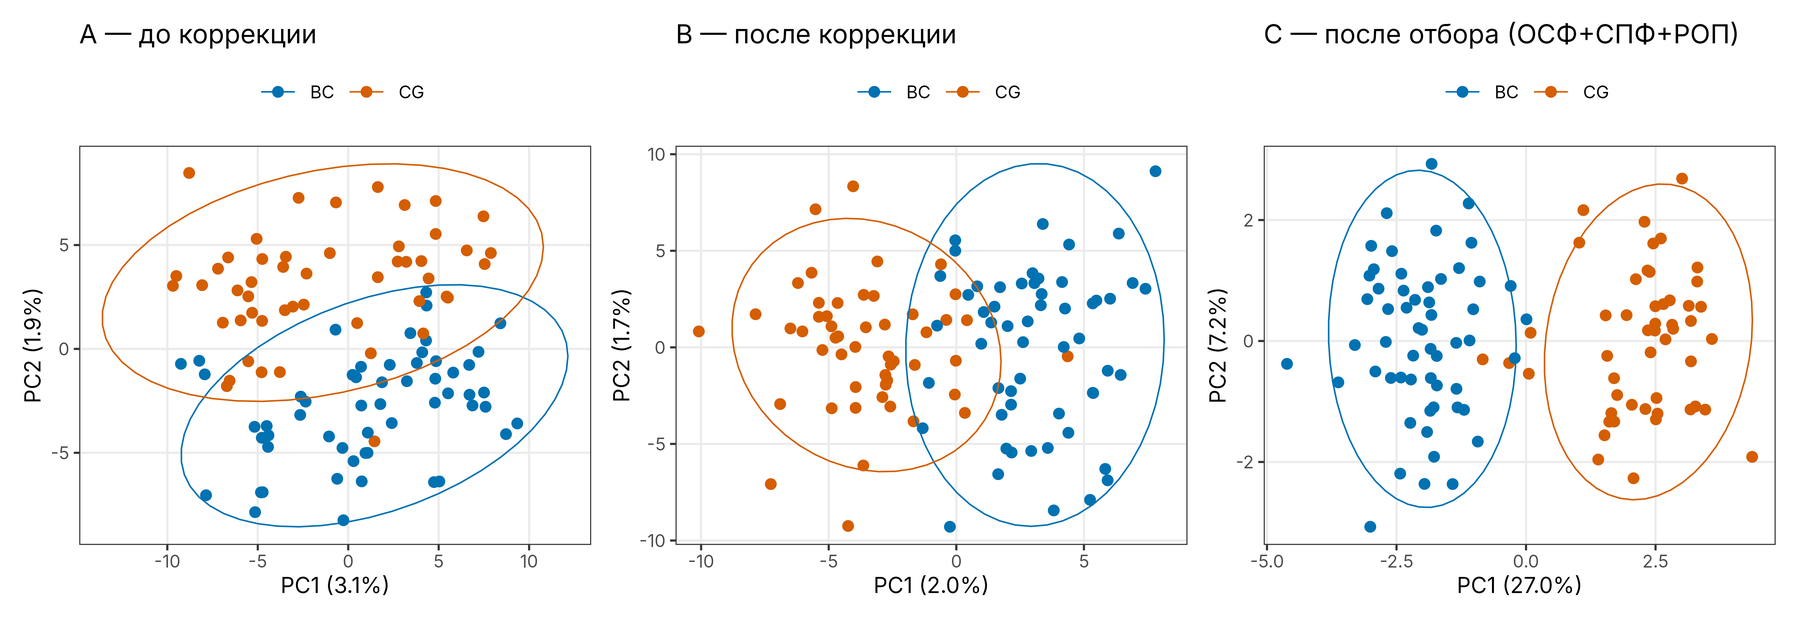
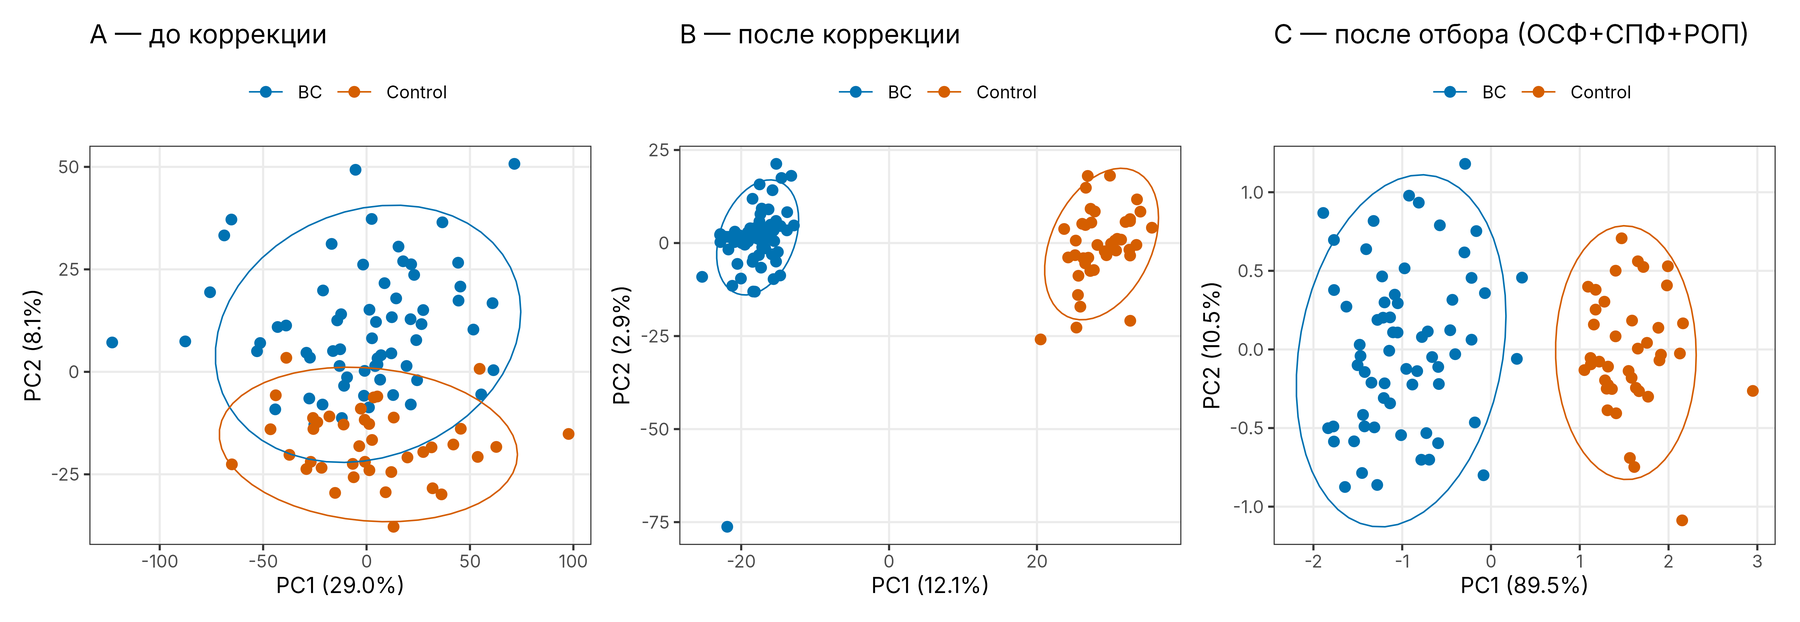
Docs: real cohorts A/B, set V from filtered A, filter profiles, module 1 verification; figures from set A
Claude-Session: https://claude.ai/code/session_013Wpb2gRPMcSAyp5VyyUtQh

diff --git a/r_utility/docs/content_zapiska.js b/r_utility/docs/content_zapiska.js
@@ -16,8 +16,8 @@ module.exports = ({ rd, csv, ROOT }) => {
   const fig = (f) => `docs/figures/${f}.png`;
   const has = (f) => fs.existsSync(path.join(ROOT, fig(f)));
   const progFiles = ["run_analysis.R", ...fs.readdirSync(path.join(ROOT, "R")).sort().map((f) => "R/" + f), "app/app.R", "app/launch.R",
-                     "templates/report.Rmd", "Start_UroMetabR.bat", "start_urometabr.sh", "Create_desktop_shortcut.vbs"];
-  const testFiles = ["tests/make_test_data.R", "tests/run_tests.R", "tests/testthat/test-01-units.R", "tests/ispytaniya.R"];
+                     "templates/report.Rmd", "docs/user_guide.md", "Start_UroMetabR.bat", "start_urometabr.sh", "Create_desktop_shortcut.vbs"];
+  const testFiles = ["tests/make_test_data.R", "tests/run_tests.R", "tests/testthat/test-01-units.R", "tests/ispytaniya.R", "tests/module1_check.R"];
   const C = [];
   C.push(["title", "Программный инструмент для неинвазивной вспомогательной диагностики рака мочеполовой системы на основе анализа мочи методом ВЭЖХ-МС"]);
   C.push(["center", `UroMetabR ${V} от ${DATE}: пояснительная записка, результаты испытаний, исходный код`]);
@@ -26,19 +26,19 @@ module.exports = ({ rd, csv, ROOT }) => {
 
   // ---------------------------------------------------------------- ТЗ
   C.push(["h1", "1 Соответствие параметрам технического задания"]);
-  C.push(["p", "В таблице для каждого параметра указано, чем он обеспечен и каким пунктом испытаний подтверждается. Статус «требует данных/ПК» означает, что программа и сценарий испытания готовы, но пункт нужно выполнить на реальных наборах А/Б или на ПК с Windows (раздел 6)."]);
+  C.push(["p", "В таблице для каждого параметра указано, чем он обеспечен и каким пунктом испытаний подтверждается. Испытания проведены на реальных наборах А (когорта статьи в ABC) и Б (когорта рукописи для Analytica), набор В построен из А; модуль 1 проверен на открытых наборах faahKO и msdata в Docker-образе с Bioconductor. Статус «требует ПК с Windows» — пункт выполняется вручную на целевом компьютере (раздел 6.1)."]);
   C.push(["table", ["Параметр", "Требование ТЗ", "Как обеспечено", "Испытание: результат", "Статус"], [
-    ["Язык и среда", "R ≥ 4.0.0, пакеты CRAN (и Bioconductor для xcms)", "Только пакеты CRAN; Bioconductor — только модуль 1; код без возможностей новее R 4.0", "Испытания в R 4.3.3 (Linux)", "подтверждено (Linux)"],
+    ["Язык и среда", "R ≥ 4.0.0, пакеты CRAN (и Bioconductor для xcms)", "Только пакеты CRAN; Bioconductor — только модуль 1; код без возможностей новее R 4.0", "Испытания в R 4.3.3 (Linux); модуль 1 — R 4.5.2, xcms 4.8.0 (Docker)", "подтверждено (Linux)"],
     ["Поставка", "Архив .zip: исходный код, библиотечные файлы, инструкция", `UroMetabR_v${V}_${DATE}.zip: код, шаблон отчёта, файлы запуска, инструкция, тесты`, "Комплект для фиксации", "подтверждено"],
     ["Установка", "Распаковать архив и запустить основной скрипт", "Start_UroMetabR.bat находит R, ставит недостающие пакеты CRAN и открывает интерфейс; ярлык — Create_desktop_shortcut.vbs", cell(10), "требует ПК с Windows"],
     ["Пользователь", "Специалист без навыков программирования", "Графический интерфейс Shiny: папка проекта, выбор файлов, параметры, запуск, журнал, результаты; код не правится", "Сценарий в браузере пройден целиком (рис. 1–3)", "подтверждено"],
     ["Входные данные", "mzML/mzXML и CSV/TSV (также .txt)", "Модуль 0 читает CSV, TSV, TXT (любой разделитель), экспорт MS-DIAL, таблицы «признаки по строкам»; проверяет mzML/mzXML/CDF; модуль 1 строит таблицу пиков (xcms)", cell(1), status(1)],
     ["Объём сессии", "50–100 образцов", "Нет ограничений по числу образцов; память — матрицы в R", cell(2), status(2)],
-    ["Устойчивые признаки", "300–800", "Модуль 3: RSD в QC ≤ 30 %, присутствие ≥ 50 % хотя бы в одной группе, обнаружение в QC ≥ 80 %, бланк; пороги — параметры; выход за 300–800 отмечается в журнале", cell(3), "требует наборов А и Б"],
+    ["Устойчивые признаки", "300–800", "Модуль 3, два профиля. Стандартный (анализ, модули 4–8): присутствие ≥ 50 % хотя бы в одной группе, QC ≥ 80 %, бланк, RSD в QC ≤ 30 %. Строгий (база признаков, п. 6 ТЗ): обнаружение во всех образцах, QC ≥ 80 %, бланк, RSD в QC ≤ 15 %", cell(3), "А: подтверждено (строгий профиль); Б: вне диапазона"],
     ["Пропуски во входных данных", "до 20–30 %", "Модуль 5: случайный лес (алгоритм missForest); доля пропусков проверяется в модуле 0", cell(4), status(4)],
-    ["Полный цикл обработки", "до 24–48 ч", "Время и пиковая память каждого модуля пишутся в журнал и отчёт", cell(8), "подтверждено на А*; А и Б — на ПК"],
+    ["Полный цикл обработки", "до 24–48 ч", "Время и пиковая память каждого модуля пишутся в журнал и отчёт", cell(8), status(8)],
     ["Выход", "База признаков (m/z, RT…) для накопления; статистика; графики; отчёт", "Модуль 9: runs_db, features_db, intensities_db (CSV с дозаписью); модуль 7 — статистика; модуль 8 — рисунки PNG/JPEG 600 dpi; отчёт HTML (R Markdown)", cell(9), status(9)],
-    ["Железо", "Windows 8+, ≥ 2,5 ГГц, ОЗУ ≥ 8 ГБ, диск ≥ 1 ГБ", "Пиковая память R в испытаниях < 0,5 ГБ; результаты прогона — десятки МБ", "Память по модулям — в протоколе (п. 2, 8)", "требует ПК с Windows"],
+    ["Железо", "Windows 8+, ≥ 2,5 ГГц, ОЗУ ≥ 8 ГБ, диск ≥ 1 ГБ", "Пиковая память R в испытаниях ≤ 1,7 ГБ (набор Б), модуль 1 — 1,5 ГБ; результаты прогона — десятки МБ", "Память по модулям — в протоколе (п. 2, 8)", "память подтверждена; Windows — на ПК"],
     ["Обслуживание", "Без регулярного обслуживания; обновление — новым архивом", "Программа не хранит состояние вне папки проекта; обновление — распаковка нового архива, проекты и база не затрагиваются", "—", "подтверждено"]],
     [12, 16, 28, 30, 14]]);
 
@@ -48,16 +48,16 @@ module.exports = ({ rd, csv, ROOT }) => {
     ["0", "Загрузка и проверка входа", "Новое (на этапе 1 — CDF и разбор имён файлов)", "CSV/TSV/TXT/MS-DIAL, mzML/mzXML/CDF; метаданные (file, group, sample, injection_order, replicate, include, sex, age); 9 проверок с понятными сообщениями", "00_input: input_check.csv, metadata_checked.csv"],
     ["1", "Оптимизация параметров и таблица пиков", "IPO + xcms: centWave, Obiwarp, PeakDensity, fillChromPeaks", "Те же шаги; один режим параллельности; minFraction — параметр (0,5); группы образцов из метаданных; IPO по файлам QC — по флажку; для таблиц модуль пропускается", "01_peaktable: peak_table.csv, features.csv"],
     ["2", "Контроль качества", "PCA с образцами QC", "PCA (log2, автошкалирование) с QC, TIC по порядку ввода, распределение RSD в QC, пропуски по группам", "02_qc: qc_summary.csv, pca_qc, tic_by_order, rsd_qc"],
-    ["3", "Фильтр устойчивых признаков", "Новое", "Присутствие ≥ 50 % хотя бы в одной группе, обнаружение в QC ≥ 80 %, отношение к бланку ≥ 5, RSD в QC ≤ 30 %; число признаков на каждом шаге", "03_filter: filter_steps.csv, feature_filter.csv"],
+    ["3", "Фильтр устойчивых признаков", "Новое", "Два профиля: стандартный (присутствие ≥ 50 % хотя бы в одной группе, QC ≥ 80 %, бланк ≥ 5, RSD в QC ≤ 30 %) — для анализа; строгий (во всех образцах, QC ≥ 80 %, бланк, RSD ≤ 15 %) — для базы признаков; число признаков на каждом шаге обоих профилей", "03_filter: filter_steps.csv, feature_filter.csv, strict_profile_peak_table.csv"],
     ["4", "Удаление QC, усреднение повторов, сортировка", "Код этапа 1 (часть — вручную в Excel)", "Автоматически по метаданным: QC и бланки удаляются, повторы одного образца усредняются, строки сортируются по порядку ввода", "04_samples: samples_matrix.csv"],
     ["5", "Заполнение пропусков", "missForest (maxiter 10, ntree 100)", "Алгоритм missForest в собственной реализации (воспроизводимо при любом числе потоков) или пакет missForest; ½ минимума — по выбору; оценка NRMSE", "05_impute: imputed.csv, impute_info.csv"],
     ["6", "Коррекция дрейфа и логарифмирование", "EigenMS (ProteoMM), log2; диаграммы распределения", "EigenMS в собственной реализации (число трендов — перестановочный тест), log2, PQN — по выбору; диаграммы распределения по пробам до и после", "06_correct: corrected_log2.csv, eigenms_trends.csv, distribution_by_sample"],
     ["7", "Статистика и отбор признаков", "uvf; 4 модели caret; 50 важнейших; встречаемость ≥ 2 из 4; RFE c nbFuncs", "То же с исправлениями (раздел 3); поправка по всем признакам — параметр (Холм); таблицы ds, ds_d, ds_rfe; точность моделей до/после коррекции; таблица AUROC по этапам; вложенная CV; модель с поправкой на пол и возраст (если есть в метаданных)", "07_select: uvf_stats, ds, ds_d, ds_rfe, model_accuracy, auroc_steps, nested_cv"],
     ["8", "Визуализация", "PCA и ИКА (Манхэттен, ward.D2), тепловая карта, boxplot, PLS-DA с VIP", "Те же графики для трёх этапов (до коррекции, после коррекции, после отбора); PNG и JPEG, 600 dpi", "08_visual: pca_stages, hca_stages, heatmap, boxplots_metabolites, plsda_vip"],
-    ["9", "База признаков и отчёт", "Новое", "CSV-база с дозаписью: прогоны, признаки (m/z, RT, отметки отбора), интенсивности; отчёт HTML (R Markdown) со всеми таблицами, рисунками, журналом и sessionInfo()", "09_report: report.html; features_db/"]],
+    ["9", "База признаков и отчёт", "Новое", "CSV-база с дозаписью: прогоны, признаки строгого профиля (m/z, RT, RSD, отметки отбора), интенсивности; если строгий профиль пуст — профиль анализа с пометкой; отчёт HTML (R Markdown) со всеми таблицами, рисунками, журналом и sessionInfo()", "09_report: report.html; features_db/"]],
     [4, 15, 20, 37, 24]]);
   C.push(["p", "Модуль можно перезапустить отдельно (например, только 7–9 после изменения параметров отбора): данные берутся из результатов предыдущих модулей в папке проекта. Перед каждым модулем генератор случайных чисел устанавливается в seed + номер модуля, поэтому результат модуля не зависит от того, запускались ли до него другие."]);
-  for (const [f, cap] of [["pca_stages", "PCA на трёх этапах обработки (набор А*)"], ["hca_stages", "Иерархическая кластеризация (Манхэттен, Уорд) на трёх этапах"],
+  for (const [f, cap] of [["pca_stages", "PCA на трёх этапах обработки (набор А, 104 образца). Резкое разделение на панели B — следствие EigenMS, который сохраняет межгрупповые различия и удаляет остальную вариацию, используя метки групп; оценивать разделимость следует по вложенной кросс-валидации"], ["hca_stages", "Иерархическая кластеризация (Манхэттен, Уорд) на трёх этапах"],
                           ["distribution_by_sample", "Распределение интенсивностей по образцам до и после коррекции EigenMS"], ["plsda_vip", "PLS-DA и важность переменных (VIP)"]])
     if (has(f)) C.push(["img", fig(f), 16, `Рисунок — ${cap}`]);
 
@@ -75,6 +75,7 @@ module.exports = ({ rd, csv, ROOT }) => {
     ["8", "\"СG\" с кириллической «С» и \" #6bc986\" с пробелом", "Цвета групп назначаются автоматически по названиям групп из метаданных", "Тест «цвета групп берутся из данных»"],
     ["9", "SnowParam сразу перезаписывается SerialParam", "Один BPPARAM: SerialParam (1 поток), SnowParam (Windows) или MulticoreParam; число потоков — параметр", "Тест «один режим параллельных вычислений»"],
     ["10", "minFraction берётся из IPO", "Параметр xcms$min_fraction (0,5)", "Тот же тест"],
+    ["12", "new(\"NAnnotatedDataFrame\") при чтении сырых данных — в актуальном MSnbase (2.36) класса нет, скрипт не запускается", "Biobase::AnnotatedDataFrame (найдено при проверке модуля 1 в Docker-образе с xcms 4.8)", "Проверка модуля 1 на faahKO"],
     ["11", "set.seed в разных местах", "Один параметр project$seed; модуль k использует seed + k; caret, RFE и перестановки получают заранее сгенерированные зерна (воспроизводимо и в параллельном режиме)", "Испытание 6: три запуска с одним seed"]],
     [4, 30, 42, 24]]);
   C.push(["h2", "3.1 Методический момент: отбор признаков внутри кросс-валидации — сделано"]);
@@ -91,24 +92,24 @@ module.exports = ({ rd, csv, ROOT }) => {
 
   // ---------------------------------------------------------------- наборы
   C.push(["h1", "5 Контрольные наборы данных"]);
-  C.push(["table", ["Набор", "Содержание", "Назначение", "Статус"], [
-    ["А", "Данные этапа 1: 106 образцов, 981 признак (таблица xcms после IPO)", "Сходимость с этапом 1: 981 → 226 → 5, mean AUROC 0,541 → 0,873", "нужны таблица и файл метаданных (file, group, injection_order, replicate)"],
-    ["А*", "Синтетический заменитель А: 106 образцов (50 CG, 56 BC), 8 QC, 10 повторных вводов, 1200 признаков, 17 % пропусков, дрейф по порядку ввода, 60 признаков с различиями", "Отладка и испытания, пока нет реального А (tests/make_test_data.R)", "использован"],
-    ["Б", "Когорта 2025–2026: 94 образца (29 РМП, 20 РПЖ, 45 контроль)", "Независимые данные", "нужны таблица (экспорт MS-DIAL) и метаданные"],
-    ["В", "Набор А с перемешанными метками групп (настоящие различия разрушены), 15 признаков с внесёнными различиями (|log2| 0,8–1,5), пропуски доведены до 20, 25 и 30 %", "Находит ли утилита именно внесённые признаки; ошибка заполнения на внесённых пропусках", "построен из А*; из реального А строится тем же сценарием"]],
-    [8, 40, 30, 22]]);
+  C.push(["table", ["Набор", "Содержание", "Назначение"], [
+    ["А", "Когорта статьи в ABC (2026): 107 участников — 67 с урологической патологией, 40 здоровых добровольцев; образцы 32, 54, 105 (не РМП по гистологии) исключены через include = 0 — в анализе 104 образца (64 РМП, 40 контроль); 21 QC; экспорт MS-DIAL, 12 930 признаков; порядок ввода не указан", "Работа на реальных целевых данных: признаки, время, отбор, вложенная кросс-валидация"],
+    ["В", "Набор А после стандартного фильтра модуля 3 (4351 признак) с перемешанными метками групп, 15 признаками с внесёнными различиями (|log2| 0,8–1,5) и пропусками во входной таблице, доведёнными до 20, 25 и 30 %", "Находит ли утилита именно внесённое; ошибка заполнения на внесённых пропусках"],
+    ["Б", "Когорта рукописи для Analytica: 94 участника (29 РМП, 20 РПЖ, 45 контроль), собрана с декабря 2025 по май 2026; 6 QC; экспорт MS-DIAL, 14 693 признака", "Независимые данные, не использованные при разработке"],
+    ["faahKO, msdata", "Открытые наборы Bioconductor: 12 файлов netCDF (6 KO, 6 WT), конвертированных в mzML и mzXML; файлы mzML (Sciex) и mzXML из msdata", "Проверка модуля 1 (xcms) и чтения сырых форматов"]],
+    [10, 55, 35]]);
+  C.push(["p", "Набор В строится из отфильтрованной таблицы А, потому что в исходном экспорте MS-DIAL много почти пустых признаков (в образцах набора А — 52 % пропусков), а требование ТЗ «до 20–30 % пропусков» относится к входным данным устойчивых признаков. Синтетические данные (tests/make_test_data.R) используются только в модульных тестах."]);
+  C.push(["p", "Замечание к результатам набора А: группы разделяются почти полностью уже до коррекции (точность моделей 0,96–0,99), а РОП оставляет 2 признака. В статье ABC группы различаются по полу и возрасту, образцы собраны в двух клиниках, поэтому часть различий может быть связана не с опухолью; при наличии пола и возраста в метаданных модуль 7 дополнительно строит модель с поправкой на них."]);
 
   // ---------------------------------------------------------------- испытания
   C.push(["h1", "6 Функциональные испытания"]);
-  C.push(["p", "Испытания выполняет сценарий tests/ispytaniya.R. Он строит контрольные наборы, запускает утилиту, сравнивает результаты с целевыми значениями и записывает протокол (protocol.csv), журналы и sessionInfo() каждого прогона. Ниже — протокол прогона в среде разработки (Linux, R 4.3.3, 4 потока) на наборе А*."]);
+  C.push(["p", "Испытания выполняет сценарий tests/ispytaniya.R. Он строит контрольные наборы, запускает утилиту, сравнивает результаты с целевыми значениями и записывает протокол (protocol.csv), журналы и sessionInfo() каждого прогона. Ниже — протокол на наборах А, Б и В (Linux, R 4.3.3, 4 потока); строки пункта 1 «Модуль 1» — из проверки tests/module1_check.R в Docker-образе jorainer/xcms_tutorials:RELEASE_3_22 (R 4.5.2, xcms 4.8.0, MSnbase 2.36.0). Повторные прогоны пп. 4–6 выполнены с облегчёнными настройками (указаны в строках протокола), полные прогоны А и Б — с настройками по умолчанию."]);
   C.push(["table", ["№", "Что проверяем", "Результат", "Цель", "Итог"], P.map((r) => [r.trial, r.item, r.value, r.target, r.result]), [4, 28, 40, 16, 12]]);
   if (has("report_top")) C.push(["img", fig("report_top"), 15, "Рисунок 4 — Начало HTML-отчёта (испытание 9): содержание, время и память по модулям, проверки входных данных"]);
-  C.push(["h2", "6.1 Что нужно выполнить до сдачи отчёта"]);
+  C.push(["h2", "6.1 Что остаётся выполнить"]);
   C.push(["numbers", [
-    "**Наборы А и Б** (пункты 2, 3, 7, 8 на реальных данных; набор В — из реального А): `Rscript tests/ispytaniya.R --out=протокол_А_Б --setA=xcms_after_IPO.csv,meta_A.csv --setB=s266_table.csv,meta_B.csv --cores=4`. Для А нужен файл метаданных: file (как в таблице), group (CG/BC/QC), injection_order, replicate. Режим совместимости (p_adjust = stage1, без фильтра модуля 3) должен дать 226 признаков после ОСФ; режим по умолчанию (поправка Холма) — заметно меньше: это ожидаемое следствие исправления 6.",
-    "**mzML/mzXML** (пункт 1, модуль 1): установить xcms и MSnbase (`BiocManager::install(c(\"xcms\", \"MSnbase\", \"IPO\"))`) и добавить `--raw=папка_mzML,метаданные.csv`. В среде разработки Bioconductor недоступен, модуль 1 не запускался.",
-    "**Windows** (пункт 10 и проверка пункта 8 на ПК уровня ТЗ): на чистом ПК установить R, распаковать архив, запустить Start_UroMetabR.bat, записать время установки и проблемы; прогнать набор Б через интерфейс и записать время и память из таблицы модулей.",
-    "**Набор Б и цель 300–800 признаков.** В рукописи по набору Б (MS-DIAL) после тех же фильтров остаётся 7403 признака (5792 соединения) — больше 800. Либо ужесточить пороги (например, RSD ≤ 20 % и присутствие ≥ 80 %), либо указать в отчёте, что диапазон 300–800 относится к таблицам xcms (набор А), а экспорт MS-DIAL даёт больше признаков."], "num"]);
+    "**Установка на ПК с Windows (пункт 10).** На чистом ПК установить R ≥ 4.0.0, распаковать архив, запустить Start_UroMetabR.bat; записать версию Windows и R, время установки пакетов и проблемы (чек-лист — docs/user_guide.md, раздел «Установка»). Там же можно повторить модуль 1: Rscript tests/module1_check.R --out=module1_check (чек-лист — tests/module1/README.md).",
+    "**Цель 300–800 признаков для набора Б.** Строгий профиль даёт 777 признаков для набора А и 1709 для набора Б; стандартный — 4351 и 7403. В отчёте стоит указать, что диапазон выполняется для набора А в строгом профиле, а для набора Б число устойчивых сигналов выше (большая когорта и другой батч)."], "num"]);
   C.push(["h2", "6.2 Журналы и sessionInfo() в отчёте"]);
   C.push(["p", "Да, их нужно включить: это подтверждает, что испытания проводились именно этой версией программы с конкретными версиями R и пакетов. Утилита пишет для каждого прогона журнал (logs/run_<дата_время>.log), таблицу времени и памяти по модулям (logs/modules_<…>.csv), копию настроек и sessionInfo() (logs/session_info_<…>.txt); тот же журнал и sessionInfo() входят в HTML-отчёт. Сценарий испытаний собирает их в папку runs/ протокола. В приложение к отчёту достаточно вставить протокол, sessionInfo() (один раз — для среды испытаний) и таблицу модулей полного прогона; полные журналы всех прогонов приложить архивом (приложение А)."]);
 
@@ -126,7 +127,7 @@ module.exports = ({ rd, csv, ROOT }) => {
   C.push(["table", ["Модуль", "Название", "Статус", "Время, с", "Пиковая память R, МБ"], mod.map((r) => [r.module, r.title, r.status, r.time_s, r.peak_ram_mb]), [10, 46, 14, 14, 16]]);
   C.push(["h3", "sessionInfo() среды испытаний"]);
   C.push(["code", src(`${R}/session_info_ispytaniya.txt`)]);
-  C.push(["h3", "Журнал полного прогона набора А*"]);
+  C.push(["h3", "Журнал полного прогона набора А"]);
   C.push(["code", src(`${R}/log_setA_full.log`)]);
   C.push(["h1", "Приложение Б. Исходный код"]);
   [...progFiles, ...testFiles].forEach((f, i) => { C.push(["h2", `Б.${i + 1} ${f}`]); C.push(["code", src(f)]); });

diff --git a/r_utility/docs/content_komplekt.js b/r_utility/docs/content_komplekt.js
@@ -21,7 +21,7 @@ module.exports = ({ rd, csv, ROOT }) => {
   C.push(["table", ["Поле", "Содержание"], [
     ["Назначение", "Полуавтоматическая обработка и статистический анализ данных ненаправленного метаболомного профилирования мочи методом высокоэффективной жидкостной хроматографии – масс-спектрометрии (ВЭЖХ-МС) для поиска метаболомных признаков, ассоциированных с раком мочеполовой системы, и формирования расширяемой базы метаболомных признаков."],
     ["Область применения", "Клиническая лабораторная диагностика, онкоурология, научные исследования в области метаболомики."],
-    ["Основные функции (модули)", "0 — загрузка и проверка входных данных (mzML, mzXML, CDF, CSV, TSV, TXT, экспорт MS-DIAL) и метаданных; 1 — оптимизация параметров и построение таблицы пиков (xcms, IPO); 2 — контроль качества (PCA с образцами QC, доля пропусков, TIC, RSD); 3 — фильтр устойчивых признаков; 4 — удаление QC, усреднение повторных измерений, сортировка по порядку ввода; 5 — заполнение пропусков случайным лесом; 6 — коррекция систематической ошибки сигнала (EigenMS) и логарифмирование; 7 — одномерный статистический фильтр, четыре модели машинного обучения, отбор по частоте встречаемости, рекурсивный отбор переменных, вложенная кросс-валидация; 8 — визуализация (PCA, иерархическая кластеризация, тепловые карты, диаграммы размаха, PLS-DA с VIP); 9 — пополнение базы метаболомных признаков и формирование HTML-отчёта. Графический интерфейс (Shiny) и запуск из командной строки."],
+    ["Основные функции (модули)", "0 — загрузка и проверка входных данных (mzML, mzXML, CDF, CSV, TSV, TXT, экспорт MS-DIAL) и метаданных; 1 — оптимизация параметров и построение таблицы пиков (xcms, IPO); 2 — контроль качества (PCA с образцами QC, доля пропусков, TIC, RSD); 3 — фильтр устойчивых признаков (стандартный профиль для анализа и строгий профиль для базы признаков); 4 — удаление QC, усреднение повторных измерений, сортировка по порядку ввода; 5 — заполнение пропусков случайным лесом; 6 — коррекция систематической ошибки сигнала (EigenMS) и логарифмирование; 7 — одномерный статистический фильтр, четыре модели машинного обучения, отбор по частоте встречаемости, рекурсивный отбор переменных, вложенная кросс-валидация; 8 — визуализация (PCA, иерархическая кластеризация, тепловые карты, диаграммы размаха, PLS-DA с VIP); 9 — пополнение базы метаболомных признаков (сигналы, устойчивые во всех образцах) и формирование HTML-отчёта. Графический интерфейс (Shiny) и запуск из командной строки."],
     ["Язык программирования", "R (версия не ниже 4.0.0); отчёт — R Markdown"],
     ["Операционные системы", "Windows 8 и новее (основная), Linux, macOS — везде, где работает R ≥ 4.0.0"],
     ["Требования к ПК", "Процессор от 2,5 ГГц, оперативная память от 8 ГБ, свободное место на диске от 1 ГБ; браузер для графического интерфейса и отчёта; при первом запуске — доступ к репозиторию CRAN для установки пакетов"],

diff --git a/r_utility/docs/user_guide.md b/r_utility/docs/user_guide.md
@@ -33,6 +33,7 @@
 
 ### Как читать результаты
 
+* **Профили фильтра (модуль 3).** Стандартный (по умолчанию) — для анализа и отбора маркеров: признак должен присутствовать хотя бы в половине образцов одной из групп. Строгий — для базы признаков: сигнал обнаружен во всех образцах и стабилен в QC (RSD ≤ 15 %); такие признаки пригодны для накопления между когортами. Шаги обоих профилей — в `03_filter/filter_steps.csv`.
 * **ds, ds_d, ds_rfe** — признаки после одномерного фильтра (ОСФ), после отбора по частоте встречаемости в четырёх моделях (СПФ) и после рекурсивного отбора (РОП).
 * **Средняя AUROC по этапам** — описательная величина: признаки отобраны по тем же данным, поэтому она растёт по построению.
 * **Вложенная кросс-валидация** — несмещённая оценка точности: весь отбор повторяется только на обучающей части и проверяется на отложенных образцах.
